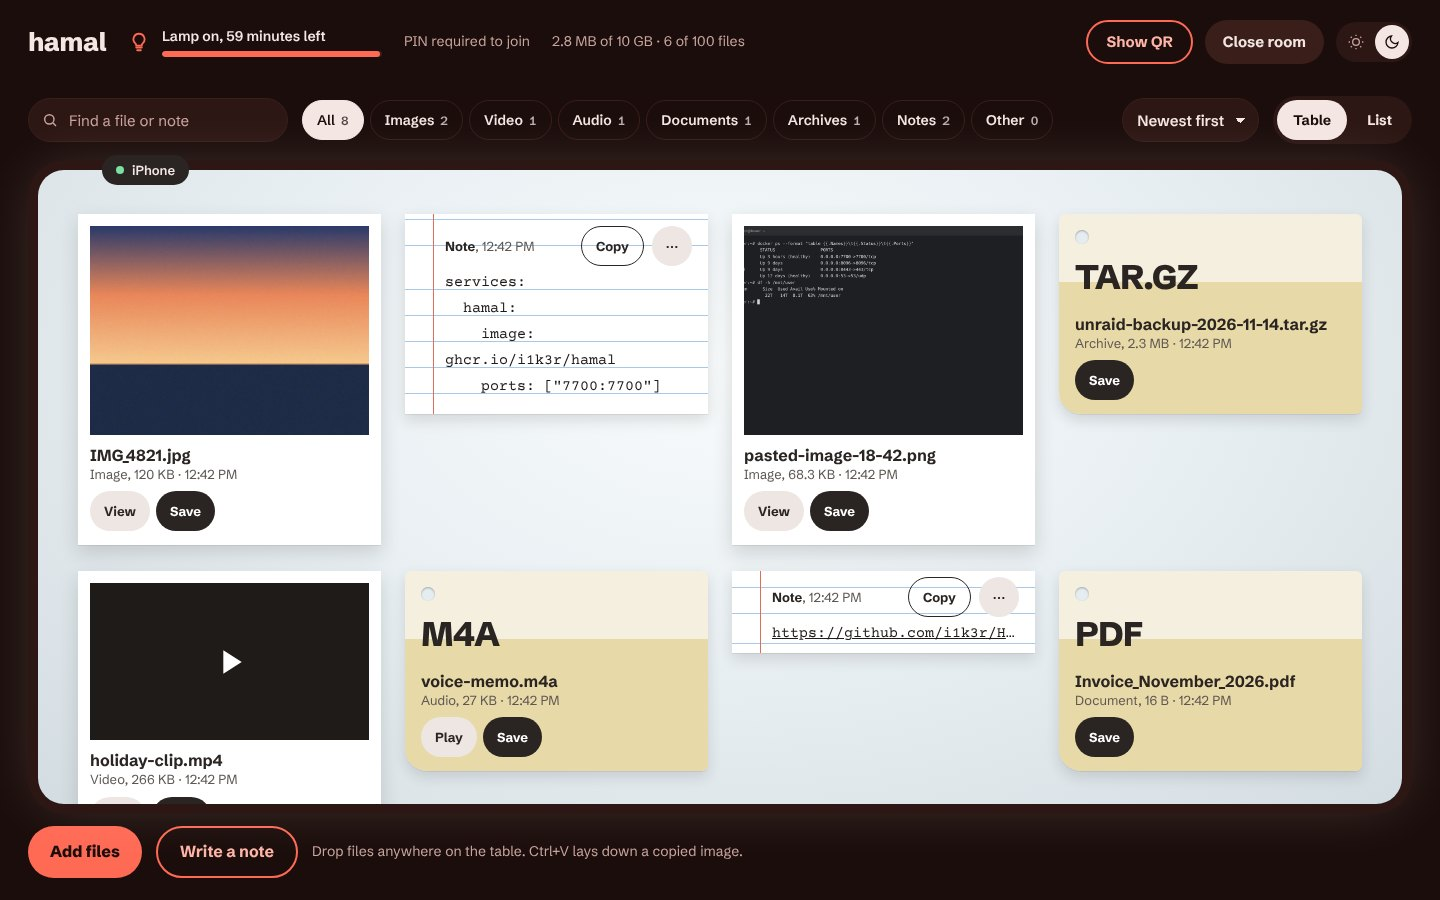
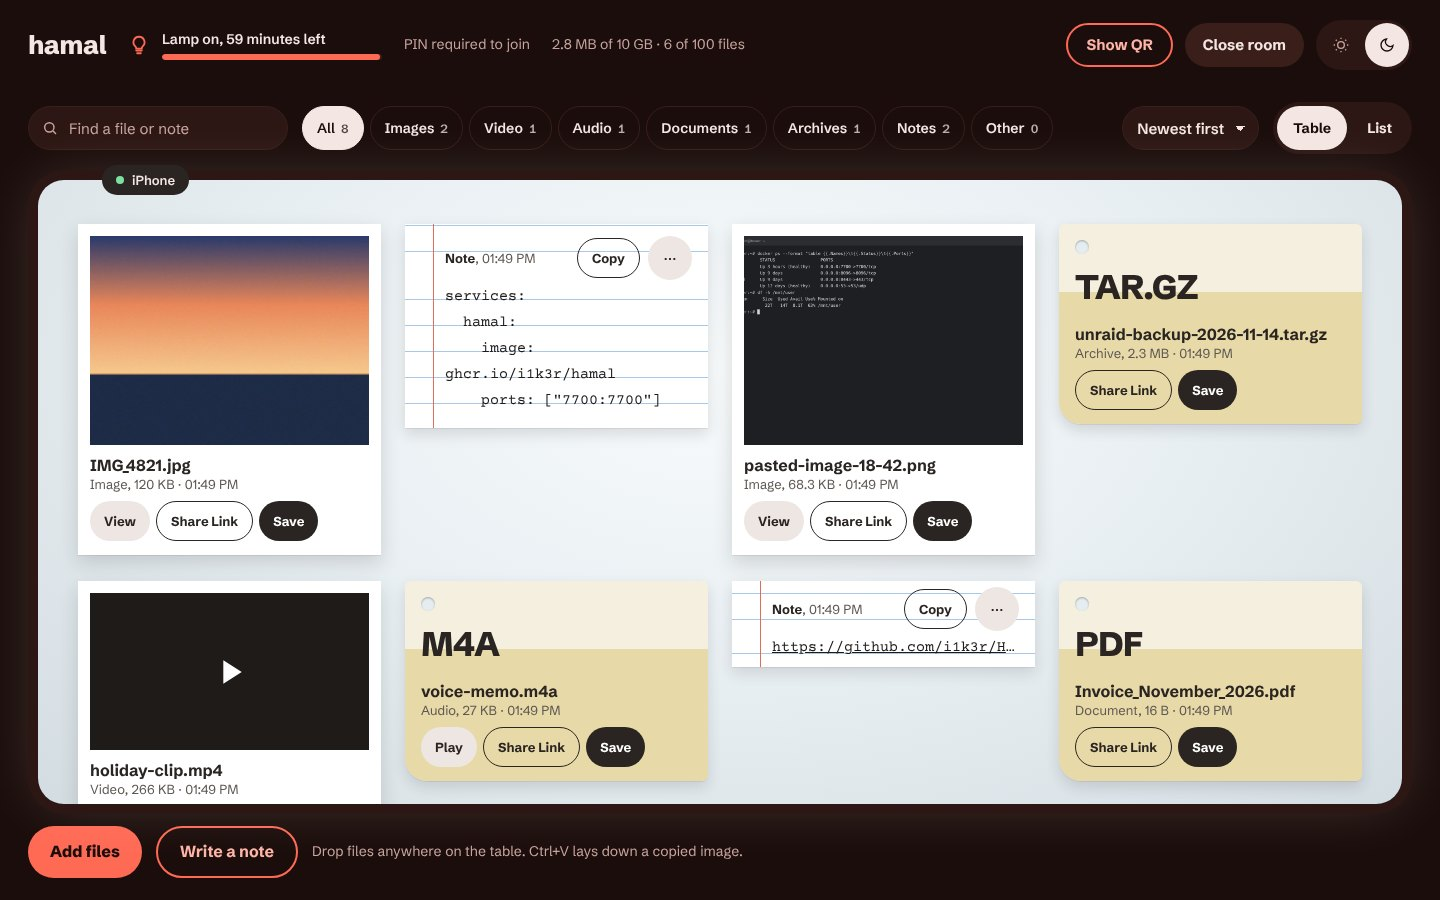
test(visual): baselines after the share page and consistency audit; README screenshots
Baselines generated in mcr.microsoft.com/playwright:v1.63.0-noble
(runs 43705395392 and 43705684771, --update-snapshots=all), each inspected
before accepting. All 16 images are byte-identical across both runs except
share.png, which changed only through the share fix in between.
- share.png (desktop, phone): the Light Table share page; the mask now
  covers only the countdown and expiry time, so Download is compared.
- share-gone.png (desktop, phone): new, the "link no longer works" state.
- participant-pin.png: Join is safelight (primary action rule).
- home, home-invalid-pin, creator-files, creator-note, participant-files:
  44 px header controls (theme switch, chips, Table/List, About).

The temporary log dump step from 1834d21 is reverted: test.yml is identical
to a17fbbd again.

README: share page desktop and phone screenshots added; home, PIN, room,
QR, notes, List, viewer and closing screenshots recaptured from the running
app so they show the 44 px controls and the safelight Join.

Claude-Session: https://claude.ai/code/session_018JmVsQ9HTRYB8sxmMK2msH

diff --git a/README.md b/README.md
@@ -36,7 +36,7 @@ HAMAL is built around short-lived transfer rooms rather than permanent storage. 
 
 ## Screenshots
 
-HAMAL uses the **Light Table** design throughout, from opening a room to joining one: a darkroom frame around a lit table, where photos lie as prints, documents and audio as manila slips, and notes as index cards. The lamp at the top shows how long the room has left. Screens below are captured from the running application with demo data.
+HAMAL uses the **Light Table** design throughout, from opening a room to joining one and opening a public share link: a darkroom frame around a lit table, where photos lie as prints, documents and audio as manila slips, and notes as index cards. The lamp at the top shows how long the room has left. Screens below are captured from the running application with demo data.
 
 <div align="center">
 
@@ -64,6 +64,12 @@ HAMAL uses the **Light Table** design throughout, from opening a room to joining
 ### List view and media viewer
 <img src="docs/screenshots/list-desktop.jpg" alt="HAMAL List view: the same files and notes as rows with Select all and Save selected" width="440" />
 <img src="docs/screenshots/viewer-desktop.jpg" alt="HAMAL media viewer showing a photo with Previous, Save and Next" width="440" />
+
+<br/><br/>
+
+### Public share link — desktop and phone
+<img src="docs/screenshots/share-desktop.jpg" alt="HAMAL public share page: the shared file as a slip with its type, name and size, a Download button and the time the link stops working" width="640" />
+<img src="docs/screenshots/share-phone.jpg" alt="HAMAL public share page on a phone" width="250" />
 
 <br/><br/>
 
